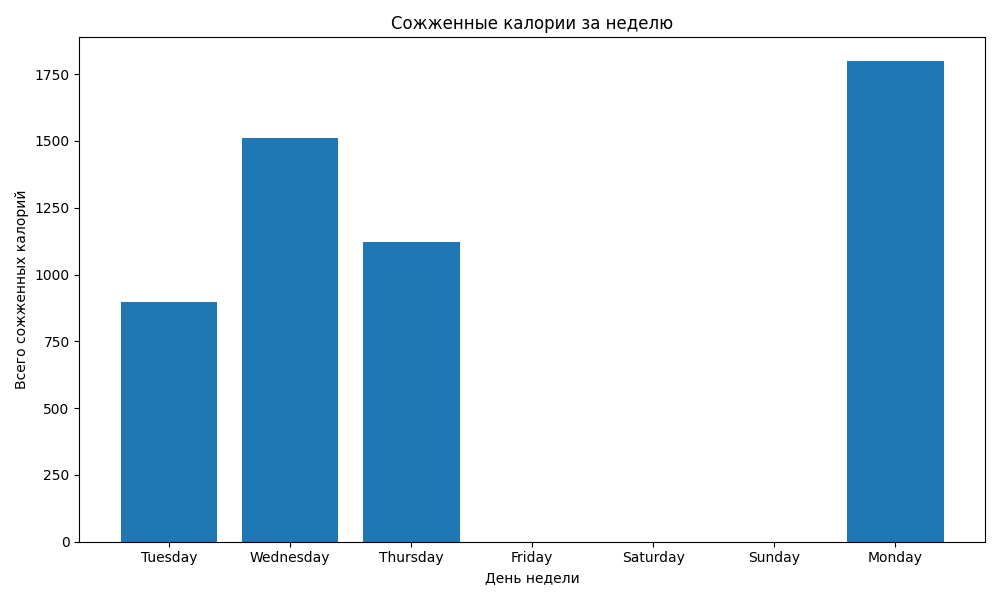
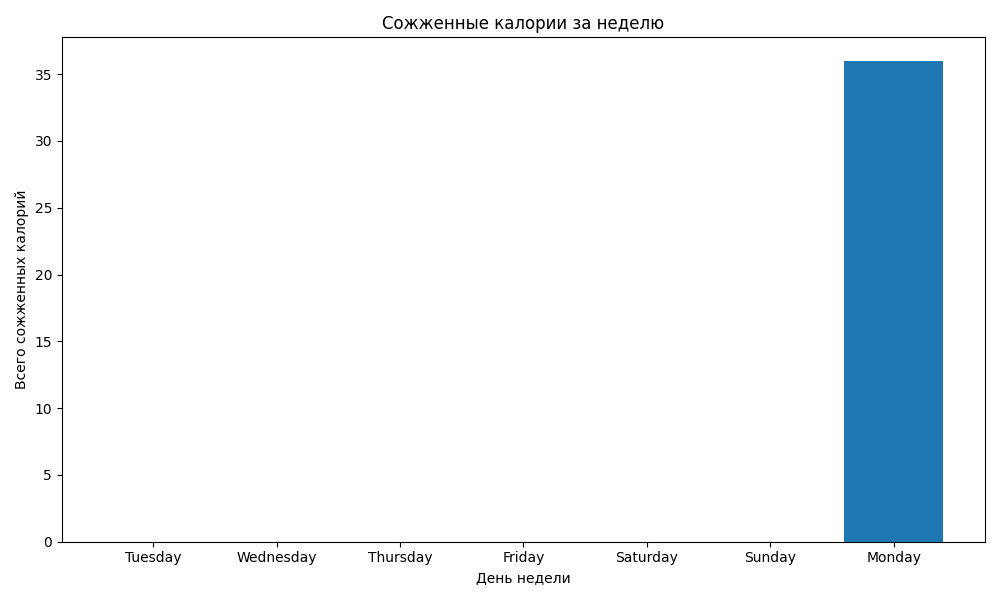
fix display_chart

diff --git a/appflut/webflut/views.py b/appflut/webflut/views.py
@@ -874,14 +874,14 @@ def display_chart(request):
     for i in range(7):
         current_date = week_start + timedelta(days=i)
         total_calories = (
-                (breakfast_products.filter(date__date=current_date).aggregate(Sum('product__calories_in'))[
-                     'product__calories_in__sum'] or 0)
-                + (lunch_products.filter(date__date=current_date).aggregate(Sum('product__calories_in'))[
-                       'product__calories_in__sum'] or 0)
-                + (dinner_products.filter(date__date=current_date).aggregate(Sum('product__calories_in'))[
-                       'product__calories_in__sum'] or 0)
-                + (snack_products.filter(date__date=current_date).aggregate(Sum('product__calories_in'))[
-                       'product__calories_in__sum'] or 0)
+                (breakfast_products.filter(date__date=current_date).aggregate(Sum('calories'))[
+                     'calories__sum'] or 0)
+                + (lunch_products.filter(date__date=current_date).aggregate(Sum('calories'))[
+                       'calories__sum'] or 0)
+                + (dinner_products.filter(date__date=current_date).aggregate(Sum('calories'))[
+                       'calories__sum'] or 0)
+                + (snack_products.filter(date__date=current_date).aggregate(Sum('calories'))[
+                       'calories__sum'] or 0)
         )
         calories_by_day[current_date] = total_calories
     days = [calendar.day_name[d.weekday()] for d in calories_by_day.keys()]
